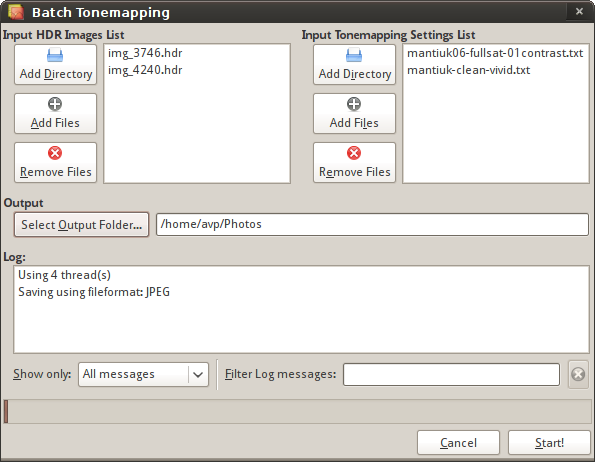
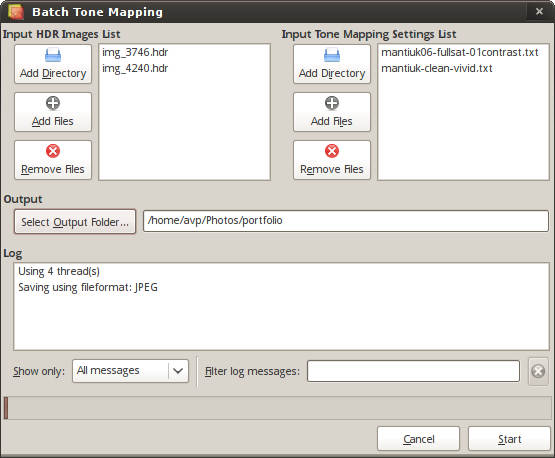
Fixes and updates
git-svn-id: https://qtpfsgui.svn.sourceforge.net/svnroot/qtpfsgui/trunk@630 479317e0-7f23-0410-9f0e-fdaa22894045

diff --git a/help/en/features.html b/help/en/features.html
@@ -2,14 +2,14 @@
 <!DOCTYPE html PUBLIC "-//W3C//DTD XHTML 1.1//EN" "http://www.w3.org/TR/xhtml11/DTD/xhtml11.dtd">
 <html xmlns="http://www.w3.org/1999/xhtml">
 <head>
-<title>LuminanceHDR User Manual - Features overview</title>
+<title>LuminanceHDR User Manual - Features Overview</title>
 <meta http-equiv="Content-Type" content="text/html; charset=utf-8" />
 <link href="style.css" rel="stylesheet" type="text/css" />
 </head>
 <body>
-<h2>Features overview</h2>
+<h2>Features Overview</h2>
 
-<h3>Streamlined localized user interface</h3>
+<h3>Streamlined Localized User Interface</h3>
 
 <p>Creating HDR files is very easy: you just drop your bracketed shots from file or photos manager to the main window and in few more clicks you have an HDR file which you can then tonemap.</p>
 
@@ -33,7 +33,7 @@
 and you are willing to take care of that, please learn 
 <a href="contributing_translating.html">how to do it</a>.</p>
 
-<h3>Supported HDR file formats</h3>
+<h3>Supported HDR File Formats</h3>
 
 <p>LuminanceHDR reads and writes:</p>
 
@@ -44,9 +44,9 @@ and you are willing to take care of that, please learn
 <li>PFS stream (.pfs)</li>
 </ul>
 
-<p>Additionally Raw images can be opened using DCRaw.</p>
+<p>Additionally Raw images can be opened (using DCRaw) as both HDR and LDR images.</p>
 
-<h3>Supported LDR file formats</h3>
+<h3>Supported LDR File Formats</h3>
 
 <p>LuminanceHDR supports the following low dynamic range file formats:</p>
 
@@ -59,7 +59,7 @@ and you are willing to take care of that, please learn
 
 <p>LuminanceHDR can also write Exif metadata to JPEG, PNG and TIFF files using Exiv2.</p>
 
-<h3>Extensive help system</h3>
+<h3>Extensive Help System</h3>
 
 <p>We don't really pretend that HDR imaging is easy. It surely can be easy if 
 lousy results is what you want. For the rest of you we bundle a solid help 
@@ -69,14 +69,14 @@ system to help you getting the most of your pictures.</p>
 available, but you can <a href="contributing_translating.html">contribute 
 a translation</a> into your native language, if you really want to.</p>
 
-<h3>Free to distribute</h3>
+<h3>Free to Distribute</h3>
 
 <p>LuminanceHDR is a free-as-in-speech application licensed under terms of GNU GPL. Which in fact means:</p>
 
 <ul>
-<li>You don't have to pay developers of LuminanceHDR for a license</li>
-<li>You may install LuminanceHDR on as many computers as you can reach</li>
-<li>You may for god's sake modify Q's source code, but you will have to share it with us, if you distribute the modified version</li>
+<li>you don't have to pay developers of LuminanceHDR for a license;</li>
+<li>you may install LuminanceHDR on as many computers as you can reach;</li>
+<li>you may for god's sake modify the source code, but you will have to share it with us, if you distribute the modified version.</li>
 </ul>
 
 </body>

diff --git a/help/en/basics.html b/help/en/basics.html
@@ -2,12 +2,12 @@
 <!DOCTYPE html PUBLIC "-//W3C//DTD XHTML 1.1//EN" "http://www.w3.org/TR/xhtml11/DTD/xhtml11.dtd">
 <html xmlns="http://www.w3.org/1999/xhtml">
 <head>
-<title>LuminanceHDR User Manual — HDR imaging basics</title>
+<title>LuminanceHDR User Manual — HDR Imaging Basics</title>
 <meta http-equiv="Content-Type" content="text/html; charset=utf-8" />
 <link href="style.css" rel="stylesheet" type="text/css" />
 </head>
 <body>
-<h2>HDR imaging basics</h2>
+<h2>HDR Imaging Basics</h2>
 
 <p>The will be much more in this chapter, but for now we just list basic terminology:</p>
 
@@ -16,14 +16,14 @@
 <dd>Stands for "High Dynamic Range". An HDR image is an image which presents more than 8 bit per color channel. Most CRTs, LCDs and printers only have a limited dynamic range, and can display only LDR images (see below). Thus various methods of "converting" HDR images into a viewable format have been developed, generally called "tone mapping".</dd>
 <dt>LDR</dt>
 <dd>Stands for "Low Dynamic Range". The most common image formats, such as JPEG, PNG, GIF, ... have 8 bits per color channel, LDR is just another umbrella definition.</dd>
-<dt>Tone map</dt>
-<dd>Tone mapping is the method of converting an HDR into a LDR. Various algorithms exist for this purpose, and in this context they are also known as "tone mapping operators", or in this manual simply as "operator". Each operator is represented in the interactive tone mapping window as a "tab".</dd>
+<dt>Tone mapping</dt>
+<dd>A method of converting an HDR image into a LDR image. Various algorithms exist for this purpose, and in this context they are also known as "tone mapping operators", or in this manual simply as "operators". You can choose an operator fron a list in the top of tone mapping options sidebar.</dd>
 <dt>TMO</dt>
 <dd>Shorthand for "Tone Mapping Operator".</dd>
-<dt>RAW</dt>
+<dt>Raw</dt>
 <dd>Another umbrella definition for several (minimally processed) image formats. Raw files can have 12 or 14 bits per color channel, but noise usually cuts down the available dynamic range to something like 1000:1, roughly 10 bits. For all intents and purposes they are HDR files.</dd>
 <dt>Antighosting</dt>
-<dd>The HDR creation process involves merging a stack of images. An object changing position in the image set creates a strange effect in which the object is partially visible (like a ghost) in the final HDR. This problem can be corrected by automatic or manual procedures.</dd>
+<dd>The HDR creation process involves merging a stack of images. An object changing position in the image set creates a strange effect in which the object is partially visible (like a ghost) in the final HDR image. This problem can be corrected by automatic or manual procedures.</dd>
 </dl>
 
 </body>

diff --git a/help/en/news.html b/help/en/news.html
@@ -15,13 +15,13 @@ previous one, such as:</p>
 <ul>
 	<li>Qtpfsgui is finally renamed to LuminanceHDR;</li>
 	<li>HDR images can now be cropped (to a new HDR image);</li>
-	<li>Original HDR image can be displayed in tonemapping dialog;</li>
-	<li>Thus tonemapping of selection is possible now;</li>
-	<li>View of Tonemapped LDR images can now be locked to sync navigation;</li>
-	<li>New tonemapping operator, Mantiuk'08, was added;</li>
-	<li>Threads Manager</li>
-	<li>You can undo and redo changes in TMO operator settings (full action hiostory system still not implemented);</li>
-	<li>New help browser (taken from Scribus & Fontmatrix) and new (localizable) documentation;</li>
+	<li>original HDR image can be displayed in tonemapping dialog;</li>
+	<li>thus tonemapping of selection is possible now;</li>
+	<li>view of Tonemapped LDR images can now be locked to sync navigation;</li>
+	<li>new tonemapping operator, Mantiuk'08, was added;</li>
+	<li>active tone mapping processes dialog;</li>
+	<li>you can undo and redo changes in TM operator settings (full actions history system still not implemented);</li>
+	<li>new help browser (taken from Scribus/Fontmatrix) and new localizable documentation;</li>
 	<li>new progress vizualization</li>
 </ul>
 

diff --git a/help/en/tonemapping.html b/help/en/tonemapping.html
@@ -2,20 +2,20 @@
 <!DOCTYPE html PUBLIC "-//W3C//DTD XHTML 1.1//EN" "http://www.w3.org/TR/xhtml11/DTD/xhtml11.dtd">
 <html xmlns="http://www.w3.org/1999/xhtml">
 <head>
-<title>LuminanceHDR User Manual — Tonemapping HDR images</title>
+<title>LuminanceHDR User Manual — Conversion to LDR</title>
 <meta http-equiv="Content-Type" content="text/html; charset=utf-8" />
 <link href="style.css" rel="stylesheet" type="text/css" />
 </head>
 <body>
 
-<h2>Tonemapping HDR images</h2>
+<h2>Conversion to LDR</h2>
 
-<p>This section covers all three ways of perfoming tonemapping in LuminanceHDR:</p>
+<p>This section covers all three ways of perfoming tone mapping in LuminanceHDR:</p>
 
 <ul>
-<li><a href="tonemapping_interactive.html">Interactive tonemapping</a></li>
-<li><a href="tonemapping_batch.html">Batch tonemapping</a></li>
-<li><a href="tonemapping_cli.html">Tonemapping from console</a></li>
+<li><a href="tonemapping_interactive.html">interactive</a></li>
+<li><a href="tonemapping_batch.html">batch mode</a></li>
+<li><a href="tonemapping_cli.html">from console</a></li>
 </ul>
 
 </body>

diff --git a/help/en/workflow.html b/help/en/workflow.html
@@ -10,7 +10,7 @@
 
 <h3>Workflow</h3>
 
-<p>LuminanceHDR imposes a particular workflow for HDR imaging. Basically it separates the workflow into two stages: creation of an HDR image and tonemapping it to an LDR image. Both <a href="creating_hdr.html">creation</a> and <a href="tonemapping.html">tonemapping</a> of HDR images can be interactive (using GUI) and non-interactive (using console).</p>
+<p>LuminanceHDR imposes a particular workflow for HDR imaging. Basically it separates the workflow into two stages: creation of an HDR image and its conversion to an LDR image. Both <a href="creating_hdr.html">creation</a> and <a href="tonemapping.html">tone mapping</a> of HDR images can be interactive (using GUI) and non-interactive (using console).</p>
 
 <p>For those photographers who tend to shoot in similar lighting conditions the workflow can be greatly enhanced by using tonemapping settings files. This allows loading previously used tonemapping settings when doing interactive tonemapping and <a href="tonemapping_batch.html">batch tonemapping</a> already available HDR images.</p>
 

diff --git a/help/en/tonemapping_interactive.html b/help/en/tonemapping_interactive.html
@@ -2,15 +2,15 @@
 <!DOCTYPE html PUBLIC "-//W3C//DTD XHTML 1.1//EN" "http://www.w3.org/TR/xhtml11/DTD/xhtml11.dtd">
 <html xmlns="http://www.w3.org/1999/xhtml">
 <head>
-<title>LuminanceHDR User Manual — Tonemapping HDR images — Interactive tonemapping</title>
+<title>LuminanceHDR User Manual — Conversion to LDR — Interactive</title>
 <meta http-equiv="Content-Type" content="text/html; charset=utf-8" />
 <link href="style.css" rel="stylesheet" type="text/css" />
 </head>
 <body>
 
-<h3>Interactive tonemapping</h3>
+<h3>Interactive Conversion to LDR</h3>
 
-<p>To start tonemapping an HDR file click the "Tonemap the Hdr" button in the mail toolbar or use <strong>Ctrl+T</strong> shortcut. This will open a new dialog.</p>
+<p>To start tonemapping an HDR file click the "Convert to LDR" button in the mail toolbar or use <strong>Ctrl+T</strong> shortcut. This will open a new dialog.</p>
 
 <p>The dialog contains a menu bar, a toolbar, a status bar that displays advanced tooltips, a sidebar with various options and an area for tonemapped images.</p>
 

diff --git a/help/en/index.html b/help/en/index.html
@@ -14,11 +14,11 @@
 <p>Its highlights are:</p>
 
 <ul>
-<li>Streamlined user interface in a dozen of languages</li>
-<li>Support for all major HDR file formats</li>
-<li>Batch tonemapping</li>
-<li>Works on Linux, Windows and Mac OS X</li>
-<li>Free to distribute among family, friends and enemies</li>
+<li>streamlined user interface in a dozen of languages</li>
+<li>support for all major HDR file formats</li>
+<li>batch tonemapping</li>
+<li>works on Linux, Windows and Mac OS X</li>
+<li>free to distribute among family, friends and enemies</li>
 </ul>
 
 <p>If you are new to HDR imaging, please read the <a href="basics.html">introductional chapter</a>. If you already know what's good in HDR for you, you might like reading <a href="features.html">detailed features overview</a>. Finally, if you know your way around LuminanceHDR, you can learn <a href="news.html">what's new</a> in this version.</p>

diff --git a/help/en/tonemapping_batch.html b/help/en/tonemapping_batch.html
@@ -2,13 +2,13 @@
 <!DOCTYPE html PUBLIC "-//W3C//DTD XHTML 1.1//EN" "http://www.w3.org/TR/xhtml11/DTD/xhtml11.dtd">
 <html xmlns="http://www.w3.org/1999/xhtml">
 <head>
-<title>LuminanceHDR User Manual — Tonemapping HDR images — Batch tonemapping</title>
+<title>LuminanceHDR User Manual — Conversion to LDR — Batch Mode</title>
 <meta http-equiv="Content-Type" content="text/html; charset=utf-8" />
 <link href="style.css" rel="stylesheet" type="text/css" />
 </head>
 <body>
 
-<h3>Batch tonemapping HDR images</h3>
+<h3>Conversion to LDR in Batch Mode</h3>
 
 <p>This window lets you tonemap a batch of <em>M</em> HDR images using <em>N</em> tonemapping settings files. After the process you'll get M*N LDR images.</p>
 

diff --git a/help/en/tonemapping_cli.html b/help/en/tonemapping_cli.html
@@ -2,13 +2,13 @@
 <!DOCTYPE html PUBLIC "-//W3C//DTD XHTML 1.1//EN" "http://www.w3.org/TR/xhtml11/DTD/xhtml11.dtd">
 <html xmlns="http://www.w3.org/1999/xhtml">
 <head>
-<title>LuminanceHDR User Manual — Tonemapping HDR images — From console</title>
+<title>LuminanceHDR User Manual — Conversion to LDR — From Console</title>
 <meta http-equiv="Content-Type" content="text/html; charset=utf-8" />
 <link href="style.css" rel="stylesheet" type="text/css" />
 </head>
 <body>
 
-<h3>Tonemapping HDR images from console</h3>
+<h3>Conversion to LDR from Console</h3>
 
 <p>TODO</p>
 

diff --git a/src/Batch/BatchTMDialog.cpp b/src/Batch/BatchTMDialog.cpp
@@ -60,7 +60,7 @@ BatchTMDialog::BatchTMDialog(QWidget *p) : QDialog(p), start_left(-1), stop_left
 	Log_Widget->setModel(log_filter);
 
 	add_log_message(tr("Using %1 thread(s)").arg(luminance_options->num_threads));
-	add_log_message(tr("Saving using fileformat: ")+luminance_options->batch_ldr_format);
+	add_log_message(tr("Saving using file format: ")+luminance_options->batch_ldr_format);
 
 	qRegisterMetaType<QImage>("QImage");
 }
@@ -93,7 +93,7 @@ void BatchTMDialog::add_HDRs() {
 	QString filetypes = tr("All HDR images ");
 	filetypes += "(*.exr *.hdr *.pic *.tiff *.tif *.pfs *.crw *.cr2 *.nef *.dng *.mrw *.orf *.kdc *.dcr *.arw *.raf *.ptx *.pef *.x3f *.raw *.sr2 *.rw2 "
                       "*.EXR *.HDR *.PIC *.TIFF *.TIF *.PFS *.CRW *.CR2 *.NEF *.DNG *.MRW *.ORF *.KDC *.DCR *.ARW *.RAF *.PTX *.PEF *.X3F *.RAW *.SR2 *.RW2)";
-	QStringList onlyhdrs=QFileDialog::getOpenFileNames(this, tr("Select the input images"), RecentDirHDRSetting, filetypes);
+	QStringList onlyhdrs=QFileDialog::getOpenFileNames(this, tr("Select input images"), RecentDirHDRSetting, filetypes);
 	add_view_model_HDRs(onlyhdrs);
 }
 
@@ -113,7 +113,7 @@ void BatchTMDialog::add_dir_TMopts() {
 }
 
 void BatchTMDialog::add_TMopts() {
-	QStringList onlytxts=QFileDialog::getOpenFileNames(this, tr("Load the tonemapping settings text files..."), RecentPathLoadSaveTmoSettings, tr("LuminanceHDR tonemapping settings text file (*.txt)"));
+	QStringList onlytxts=QFileDialog::getOpenFileNames(this, tr("Load tone mapping settings text files..."), RecentPathLoadSaveTmoSettings, tr("LuminanceHDR tone mapping settings text file (*.txt)"));
 	add_view_model_TM_OPTs(onlytxts);
 }
 
@@ -275,7 +275,7 @@ void BatchTMDialog::load_HDR_failed(QString error_message) {
 extern float pregamma;
 void BatchTMDialog::finished_loading_hdr(pfs::Frame* loaded_hdr, QString filename) {
 	pfs::DOMIO pfsio;
-	add_log_message(tr("Starting to tonemap an HDR image: ")+filename);
+	add_log_message(tr("Starting to convert an HDR image: ")+filename);
 	//TODO
 	const char *fname = QFile::encodeName(luminance_options->tempfilespath+"/original.pfs").constData();
 	FILE *fd = fopen(fname, "w");
